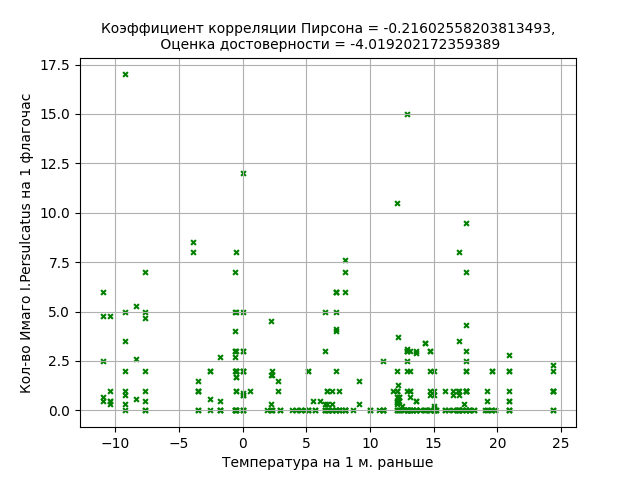
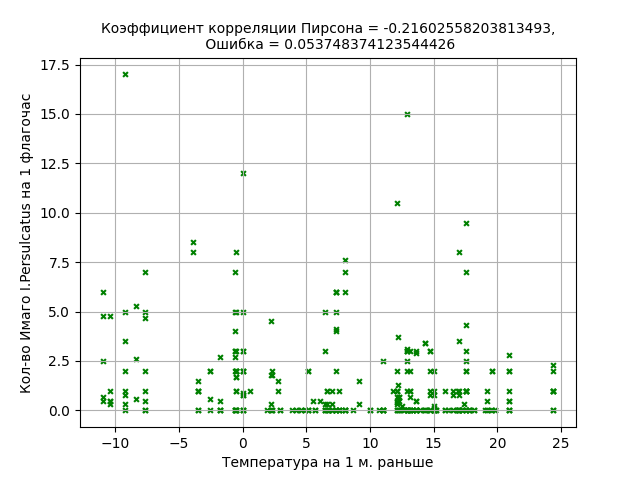
add tests

Changed region(s): [[0.25, 0.0625, 0.7812, 0.125]]

diff --git a/Tests/test_analysis.py b/Tests/test_analysis.py
@@ -1,0 +1,98 @@
+import filecmp
+import os
+import pathlib
+import unittest
+
+import pandas as pd
+
+import analysis
+
+
+class TestAnalysis(unittest.TestCase):
+    def setUp(self):
+        data = {'Название локации': ['loc 1', 'loc 2'], 'Год': [2000, 2010], 'Месяц': ['май', 'май'],
+                'Факторы и характеристики': ['близость к заливу, лиственный лес', 'хвойный лес'],
+                'Широта': [123456, 654321], 'Долгота': [123456, 321654], 'I.Persulcatus': ['+', '-'],
+                'I.Ricinus': ['-', '+'], 'Имаго I.Persulcatus': [5.0, 0.0], 'Нимфы I.Persulcatus': [5.0, 0.0],
+                'Имаго I.Ricinus': [0.0, 5.5], 'Нимфы I.Ricinus': [0.0, 1.5],
+                'Среднесуточная температура': [12.0, 21.1],
+                'Количество осадков, мм': [25.0, 22.2]}
+        self.analysis = analysis.Analysis(pd.DataFrame(data))
+
+    def test_prep_df(self):
+        data_after = {'Название локации': ['loc 1', 'loc 2'], 'Год': [2000, 2010], 'Месяц': ['май', 'май'],
+                      'Факторы и характеристики': ['близость к заливу, лиственный лес', 'хвойный лес'],
+                      'Широта': [123456, 654321], 'Долгота': [123456, 321654], 'I.Persulcatus': ['+', '-'],
+                      'I.Ricinus': ['-', '+'], 'Имаго I.Persulcatus': [5.0, 0.0], 'Нимфы I.Persulcatus': [5.0, 0.0],
+                      'Имаго I.Ricinus': [0.0, 5.5], 'Нимфы I.Ricinus': [0.0, 1.5],
+                      'Среднесуточная температура': [12.0, 21.1],
+                      'Количество осадков, мм': [25.0, 22.2], 'Номер месяца': [5, 5], 'Количество': [10.0, 7.0],
+                      'Тип леса': ['Лиственный лес', 'Хвойный лес']}
+        df_after = pd.DataFrame(data_after)
+        self.assertTrue(self.analysis.df.equals(df_after))
+
+    def test_filter_type(self):
+        df_pers = {'Название локации': ['loc 1'], 'Год': [2010], 'Месяц': ['май'], 'Имаго I.Persulcatus': [5.0],
+                   'Нимфы I.Persulcatus': [5.0], 'Среднесуточная температура': [12.0],
+                   'Количество осадков, мм': [25.0]}
+        df_ric = {'Название локации': ['loc 2'], 'Год': [2000], 'Месяц': ['май'], 'Имаго I.Ricinus': [5.5],
+                  'Нимфы I.Ricinus': [1.5], 'Среднесуточная температура': [21.1],
+                  'Количество осадков, мм': [22.2]}
+        self.assertTrue(self.analysis.filter_type('I.Persulcatus').equals(df_pers))
+        self.assertTrue(self.analysis.filter_type('I.Ricinus').equals(df_ric))
+
+    def test_corr_estimation(self):
+        res = {}
+        add_data = {'Название локации': 'loc 3', 'Год': 2005, 'Месяц': 'апрель',
+                    'Факторы и характеристики': 'смешанный лес',
+                    'Широта': 111111, 'Долгота': 333333, 'I.Persulcatus': '+',
+                    'I.Ricinus': '-', 'Имаго I.Persulcatus': 7.0, 'Нимфы I.Persulcatus': 0.0,
+                    'Имаго I.Ricinus': 0.0, 'Нимфы I.Ricinus': 0.0,
+                    'Среднесуточная температура': 11.2,
+                    'Количество осадков, мм': 55.0, 'Номер месяца': 4, 'Количество': 7.0,
+                    'Тип леса': 'Смешанный лес'}
+        self.analysis.df = self.analysis.df.append(pd.Series(add_data), ignore_index=True)
+        self.assertEquals(self.analysis.corr_estimation(self.analysis.df, 'Количество', 'Среднесуточная температура', res),
+                    {0: {'coef. t': -0.484, 'corr. coef': -0.436, 'crit. t': 3.078, 'estimation': 0.9, 'factor 1': 'Количество',
+                    'factor 2': 'Среднесуточная температура'}})
+        with self.assertRaises(AssertionError):
+            #Задание фактора, у которого нет соответствующего столбца в таблице
+            self.analysis.corr_estimation(self.analysis.df, 'Качество', 'Среднесуточная температура', res)
+            #Условие, при котором слишком мало данных для проведения расчетов
+            self.analysis.corr_estimation(self.analysis.df, 'Имаго I.Ricinus', 'Среднесуточная температура', res)
+
+    def test_descr_statistics(self):
+        add_data = {'Название локации': 'loc 1', 'Год': 2000, 'Месяц': 'апрель',
+                    'Факторы и характеристики': 'смешанный лес',
+                    'Широта': 111111, 'Долгота': 333333, 'I.Persulcatus': '+',
+                    'I.Ricinus': '-', 'Имаго I.Persulcatus': 7.0, 'Нимфы I.Persulcatus': 1.0,
+                    'Имаго I.Ricinus': 0.0, 'Нимфы I.Ricinus': 0.0,
+                    'Среднесуточная температура': 11.2,
+                    'Количество осадков, мм': 55.0, 'Номер месяца': 4, 'Количество': 7.0,
+                    'Тип леса': 'Смешанный лес'}
+        self.analysis.df = self.analysis.df.append(pd.Series(add_data), ignore_index=True)
+        self.analysis.descr_statistics('location', 'res_location.xlsx')
+        self.analysis.descr_statistics('years', 'res_years.xlsx')
+        res = pd.read_excel('res_years.xlsx', header=0)
+        df_standart_loc = pd.DataFrame({'Unnamed: 0': {0: None, 1: 'Название локации', 2: 'loc 1', 3: 'loc 2'}, 'Unnamed: 1':
+            {0: None, 1: 'Год', 2: 2000, 3: 2010}, 'Количество': {0: 'Медиана', 1: None, 2: 8.5, 3: 7}, 'Unnamed: 3': {0:
+            'Среднее знач.', 1: None, 2: 8.5, 3: 7}, 'Unnamed: 4': {0: 'Мин. знач.', 1: None, 2: 7, 3: 7}, 'Unnamed: 5':
+            {0: 'Макс. знач.', 1: None, 2: 10, 3: 7}, 'Unnamed: 6': {0: 'Дисперсия', 1: None, 2: 4.5, 3: None}, 'Unnamed: 7':
+            {0: 'Станд. отклонение', 1: None, 2: 2.121, 3: None}, 'Unnamed: 8': {0: 'Среднее абс. отклонение', 1: None, 2: 1.5, 3: 0},
+            'Подвиды': {0: 'Подвиды', 1: None, 2: '+-', 3: '-+'}})
+        df_standart_years = pd.DataFrame({'Unnamed: 0': {0: None, 1: 'Год', 2: 2000, 3: None, 4: 2010}, 'Unnamed: 1':
+            {0: None, 1: 'Месяц', 2: 'апрель', 3: 'май', 4: 'май'}, 'Unnamed: 2': {0: None, 1: 'Номер месяца', 2: 4, 3: 5, 4: 5},
+            'Количество': {0: 'Медиана', 1: None, 2: 7, 3: 10, 4: 7}, 'Unnamed: 4': {0: 'Среднее знач.', 1: None, 2: 7, 3: 10, 4: 7},
+            'Unnamed: 5': {0: 'Мин. знач.', 1: None, 2: 7, 3: 10, 4: 7}, 'Unnamed: 6': {0: 'Макс. знач.', 1: None, 2: 7, 3: 10, 4: 7},
+            'Unnamed: 7': {0: 'Дисперсия', 1: None, 2: None, 3: None, 4: None}, 'Unnamed: 8': {0: 'Станд. отклонение', 1: None, 2: None, 3: None, 4: None},
+            'Unnamed: 9': {0: 'Среднее абс. отклонение', 1: None, 2: 0, 3: 0, 4: 0}})
+        self.assertTrue(df_standart_loc.equals(pd.read_excel('res_location.xlsx', header=0)))
+        self.assertTrue(df_standart_years.equals(pd.read_excel('res_years.xlsx', header=0)))
+        with self.assertRaises(AssertionError):
+            #Использование неверного фактора анализа
+            self.analysis.descr_statistics('abc', 'res_location.xlsx')
+        os.remove('res_location.xlsx')
+        os.remove('res_years.xlsx')
+
+if __name__ == '__main__':
+    unittest.main()

diff --git a/analysis.py b/analysis.py
@@ -42,10 +42,11 @@ class Analysis(object):
         assert factor1 in factors and factor2 in factors, 'Некорректные факторы анализа'
         r = df[factor1].corr(df[factor2])
         n = df.shape[0]
+        assert n > 2, 'Невозможно применить формулы к данным'
         if n > 100:
             err = np.sqrt((1 - r ** 2) / n)
         else:
-            err = np.sqrt((1 - r ** 2) / n - 2)
+            err = np.sqrt((1 - r ** 2) / (n - 2))
         coef_t = r / err
         alpha = 0.1
         # Табличное (критическое) значение t-критерия
@@ -59,7 +60,7 @@ class Analysis(object):
 
     # Описательная статистика
     # Факторы: location - анализ по локациям, years - анализ по годам
-    def descr_statistics(self, factor):
+    def descr_statistics(self, factor, file):
         assert factor in ['location', 'years'], 'Некорректно указан фактор анализа'
         agg_func_math = {'Количество': self.param, 'Подвиды': [pd.Series.mode]}
         self.df['Подвиды'] = self.df['I.Persulcatus'] + self.df['I.Ricinus']
@@ -73,20 +74,21 @@ class Analysis(object):
                    inplace=True)
         if factor == 'years':
             res = res.drop(columns='Подвиды')
-        res.to_excel(f'Results/Descr_statistics/res_{factor}_1.xlsx')
+        res.to_excel(file)
 
     # Вычисление параметров описательной статистики для каждого месяца, когда велось исследование
-    def month_descr_statistics(self):
+    def month_descr_statistics(self, file):
         agg_func_math = {'Количество': self.param}
         res = self.df.groupby(['Номер месяца', 'Месяц']).agg(agg_func_math).round(3)
         res.rename(columns={'mean': 'Среднее знач.', 'median': 'Медиана', 'min': 'Мин. знач.', 'max': 'Макс. знач.',
                             'std': 'Станд. отклонение', 'var': 'Дисперсия', 'mad': 'Среднее абс. отклонение'},
                    inplace=True)
-        res.to_excel(f'Results/Descr_statistics/month_stat.xlsx')
+        res.to_excel(file)
 
     # Вычисление параметров описательной статистики для каждого вида клещей
-    def types_statistics(self):
+    def types_statistics(self, file1, file2):
         types = ['I.Ricinus', 'I.Persulcatus']
+        files = [file1, file2]
         for type in types:
             df_type = self.df[['Название локации', 'Год', 'Месяц', f'{type}', f'Имаго {type}', f'Нимфы {type}']]
             df_type = df_type.loc[self.df[type] == '+']
@@ -96,15 +98,15 @@ class Analysis(object):
                 columns={'mean': 'Среднее знач.', 'median': 'Медиана', 'min': 'Мин. знач.', 'max': 'Макс. знач.',
                          'std': 'Станд. отклонение', 'var': 'Дисперсия', 'mad': 'Среднее абс. отклонение'},
                 inplace=True)
-            df_type.to_excel(f'Results/Descr_statistics/{type}.xlsx')
+            df_type.to_excel(files[types.index(type)])
 
     # Вычисление параметров описательной статистики для каждого типа леса
-    def forest_type(self):
+    def forest_type(self, file):
         res = self.df.groupby(['Тип леса', 'Год', 'Номер месяца'])['Количество'].agg(self.param).round(3)
         res.rename(columns={'mean': 'Среднее знач.', 'median': 'Медиана', 'min': 'Мин. знач.', 'max': 'Макс. знач.',
                             'std': 'Станд. отклонение', 'var': 'Дисперсия', 'mad': 'Среднее абс. отклонение'},
                    inplace=True)
-        res.to_excel('Results/Descr_statistics/forest_types.xlsx')
+        res.to_excel(file)
 
     # Множественная линейная регрессия
     def multi_reg_analysis(self, location):

diff --git a/main.py b/main.py
@@ -33,11 +33,12 @@ def main():
     correlation(data_analysis, ric, pers)
     plots.plot_corr_matrix(df)
     # Описательная статистика
-    data_analysis.descr_statistics('location')
-    data_analysis.descr_statistics('years')
-    data_analysis.month_descr_statistics()
-    data_analysis.types_statistics()
-    data_analysis.forest_type()
+    data_analysis.descr_statistics('location', 'Results/Descr_statistics/res_location.xlsx')
+    data_analysis.descr_statistics('years', f'Results/Descr_statistics/res_years.xlsx')
+    data_analysis.month_descr_statistics('Results/Descr_statistics/month_stat.xlsx')
+    data_analysis.types_statistics('Results/Descr_statistics/I.Persulcatus.xlsx',
+                                   'Results/Descr_statistics/I.Persulcatus.xlsx')
+    data_analysis.forest_type('Results/Descr_statistics/forest_types.xlsx')
     plots.plot_for_years()
     plots.plot_for_locations(data_analysis.loc_list)
     plots.plot_for_months()
